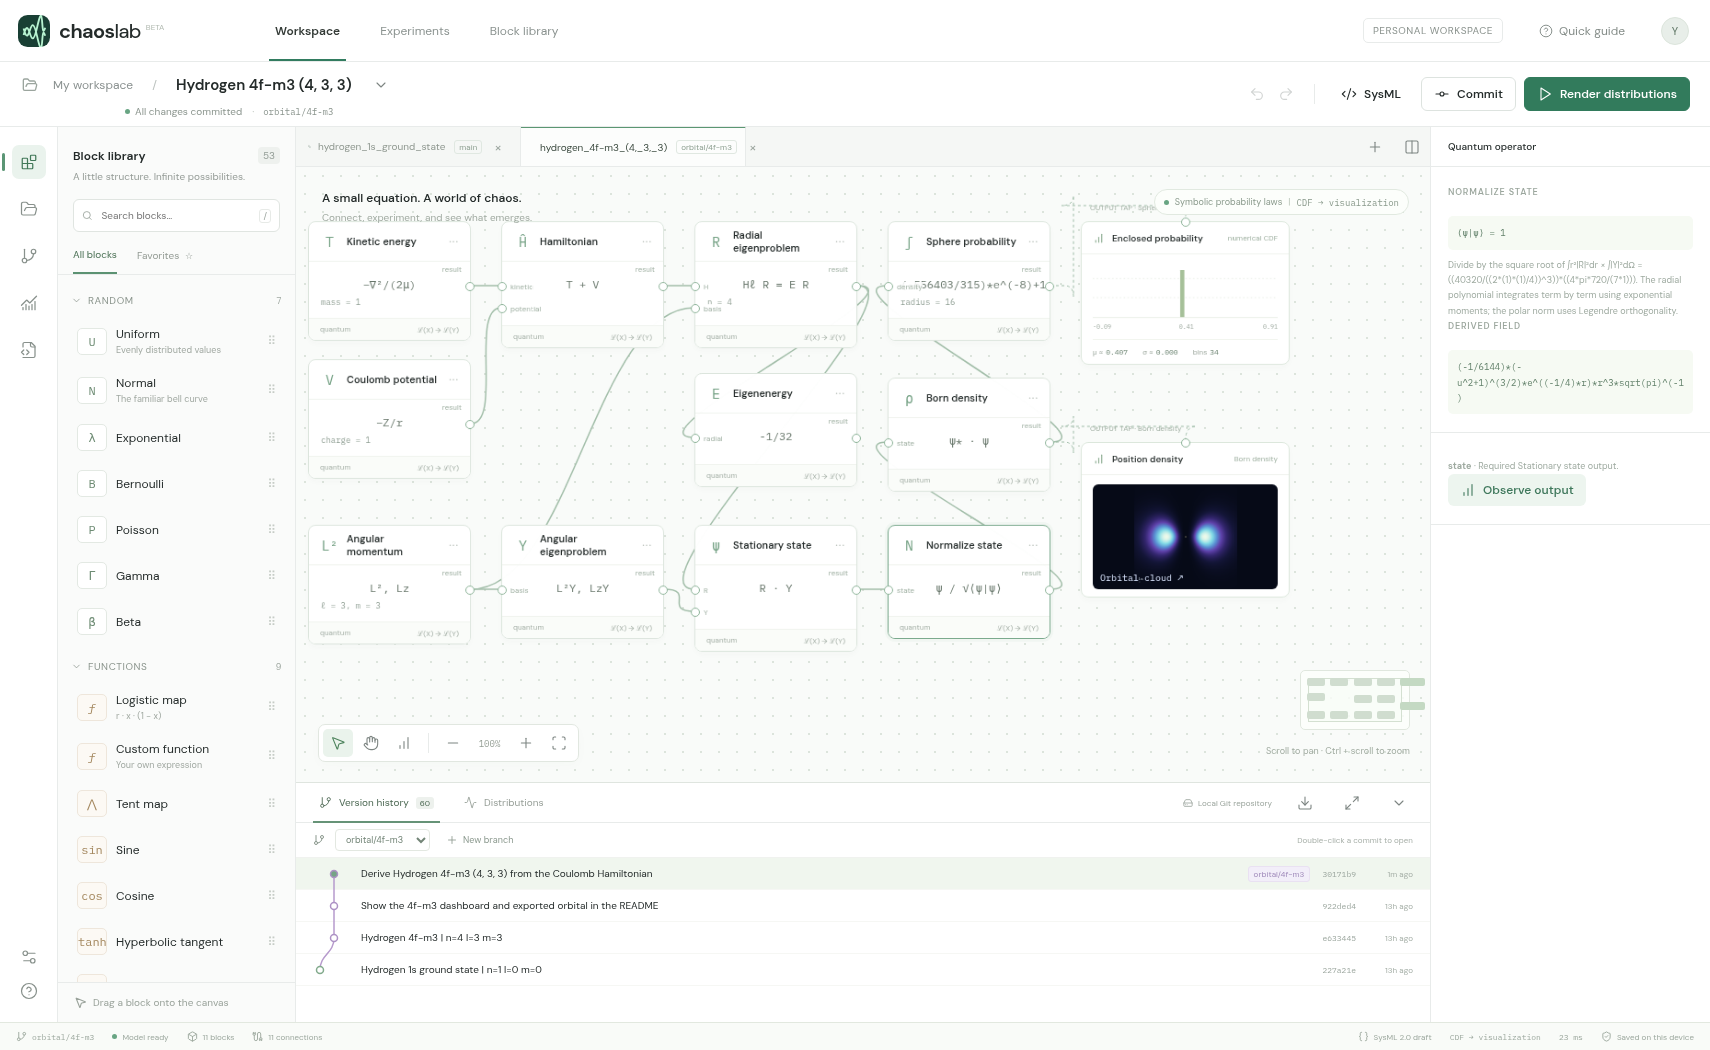
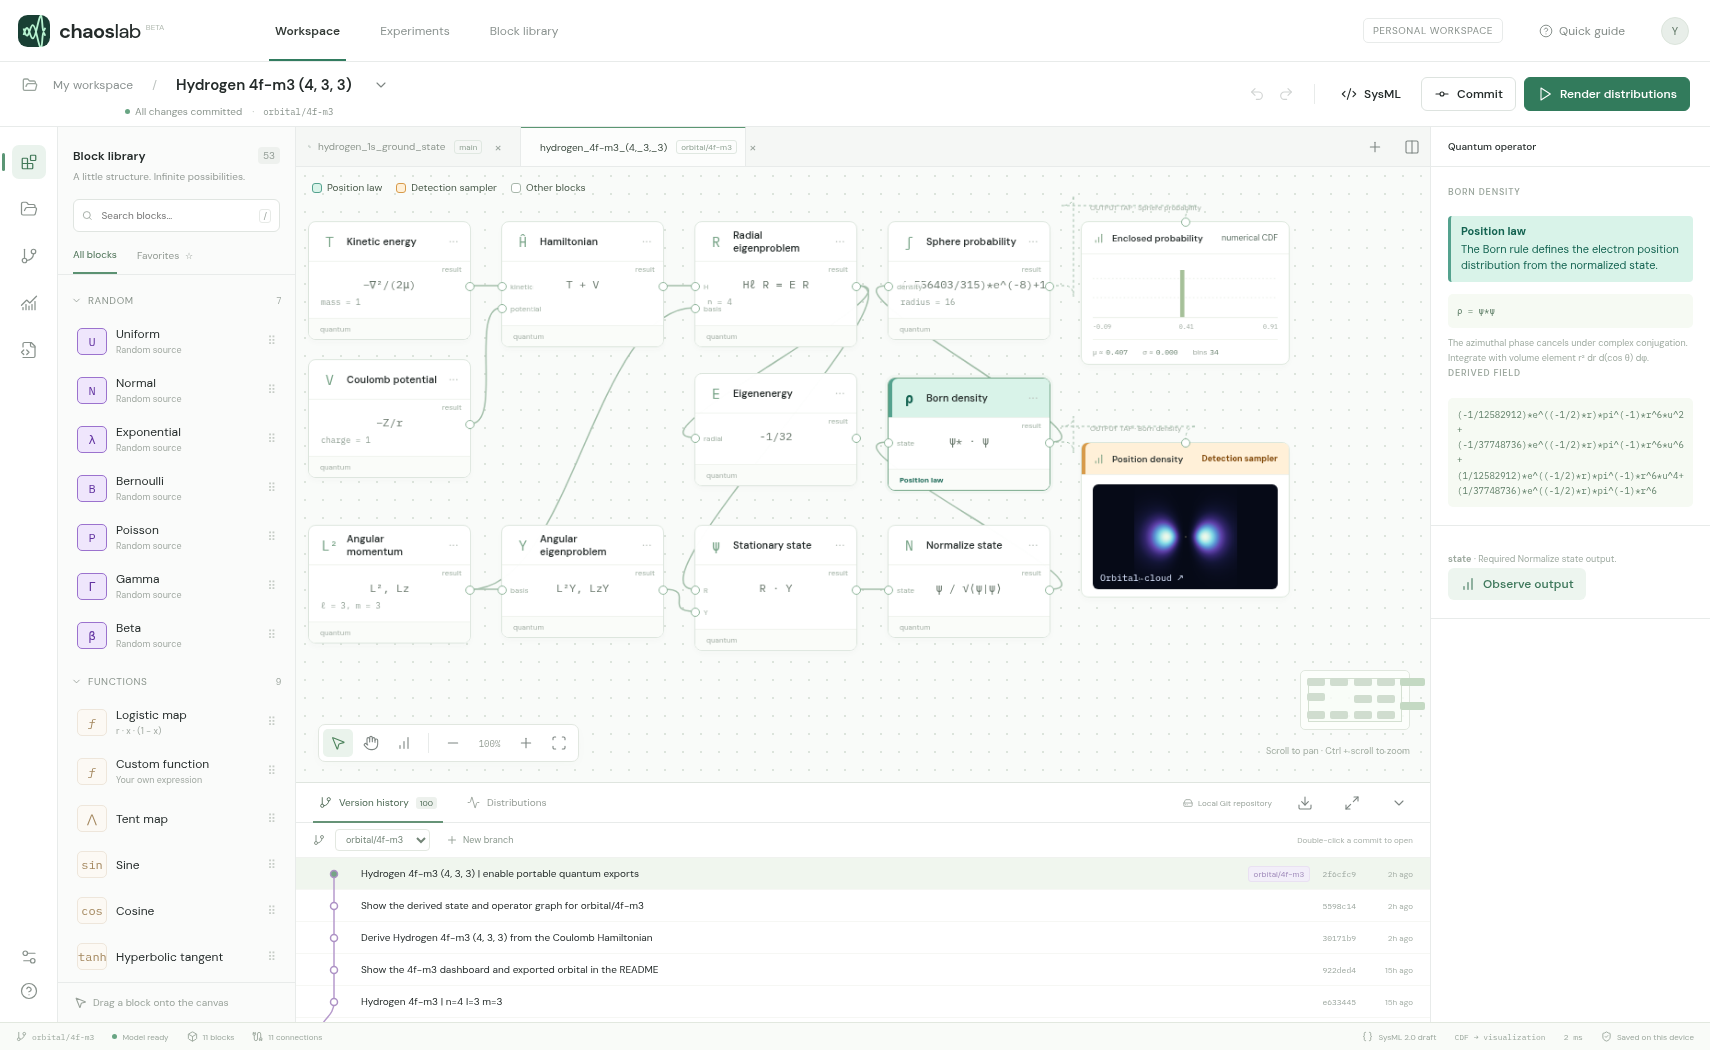
Hydrogen 4f-m3 (4, 3, 3) | identify the position law and detection sampler

diff --git a/studio.py b/studio.py
@@ -10,7 +10,7 @@ import tempfile
 import webbrowser
 
 ROOT = Path(__file__).resolve().parent
-STUDIO_REV = "1cc30c5632f1fe1f79a11ab6730f82c36a6c01e4"
+STUDIO_REV = "8657d6ecd3aa33a5a28f43219d5d6bfb8aa3edcc"
 STUDIO_REPO = "https://github.com/wa200508/chaos_lab.git"
 
 

diff --git a/README.md b/README.md
@@ -6,6 +6,8 @@ Open **Version history** in Chaos Lab to explore the 20 hydrogen designs in this
 
 The connected Hamiltonian and eigenstate solvers give $E=-1/32$ Hartree for this state.
 
+On the canvas, teal **Position law** marks where the Born rule defines the distribution of electron positions. Amber **Detection sampler** marks the tap that draws positions for the projected cloud. The central slice evaluates the density directly.
+
 ![Chaos Lab dashboard with the 4f model, m = 3, open in version history](dashboard.png)
 
 Radial nodes: 0. Polar nodes: 0. Plot half-width: 32 Bohr radii.
